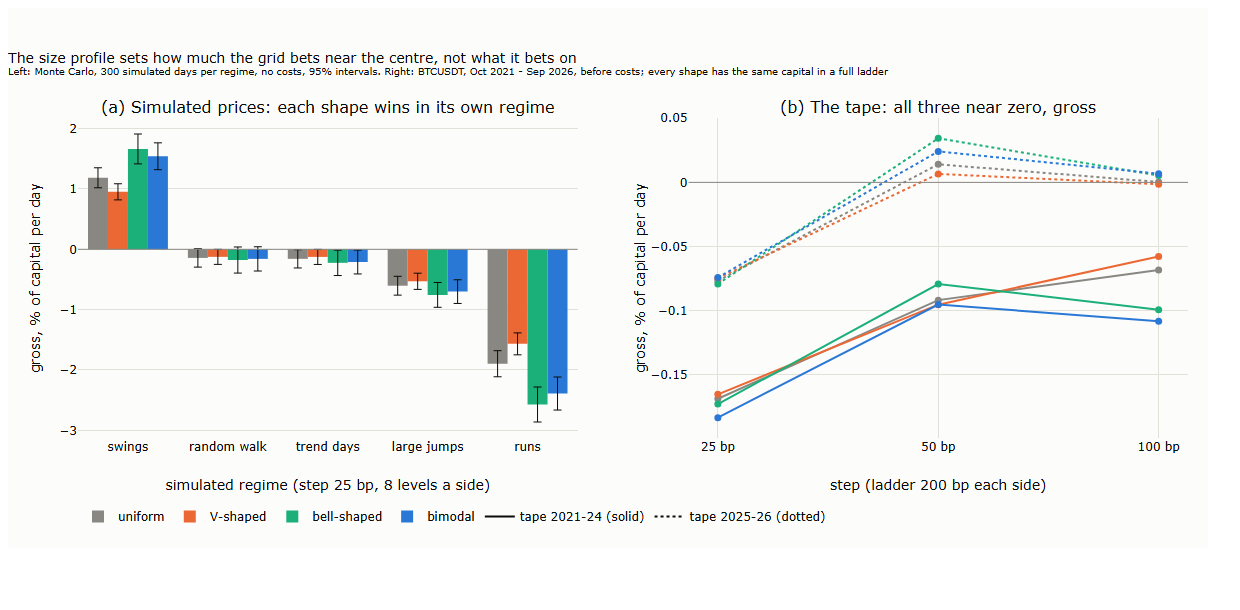
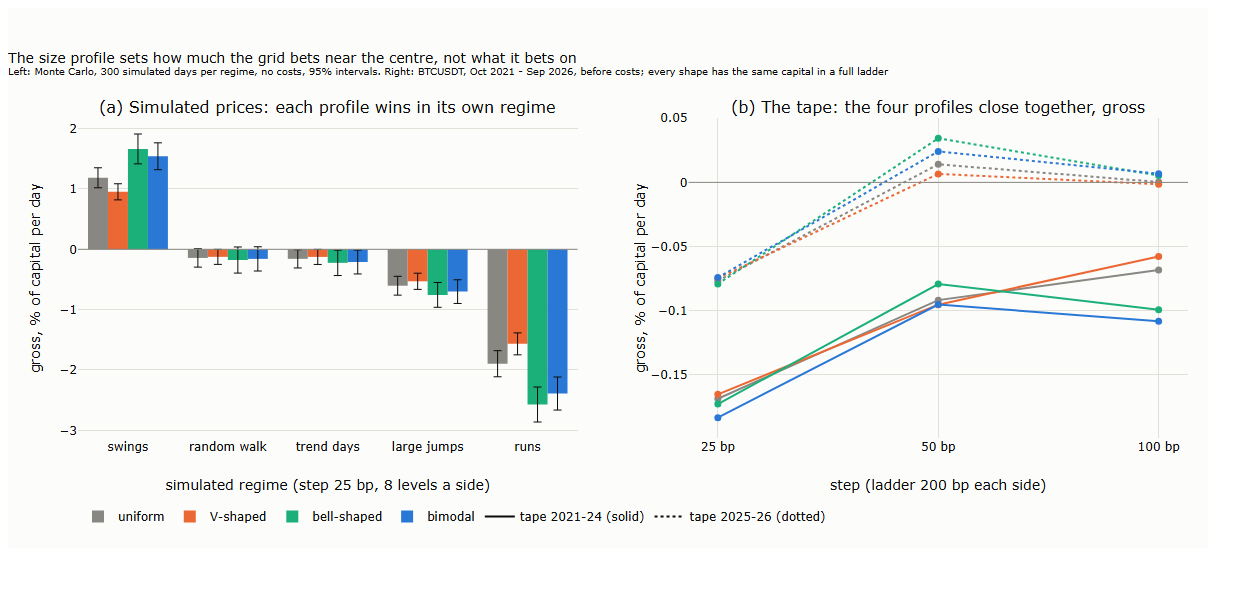
Lecture 17: axes in captions, text aligned with figures and results, 17_06 title (#285)
Checked against data/interim/l17 results:
- §4 lead and §4.1: before costs the settings are slightly negative (about
  -0.46% to +0.08% a day), the four profiles within 0.05 points of each other.
- §4.2: holding at the cap has the worst days at 50 bp and more; at 25 bp
  refreshing every hour is slightly worse (-8.8% vs -8.3%); base range
  -3.9% to -8.1%.
- §5: four rules survive the correction, two most; strong-trend rules at 25
  and 50 bp (cuts 0.03-0.10 points a day).
- §6: on strong-forecast days the grid's result is close to zero.
- 17_06 panel titles: "four profiles" (was "all three"); axes line for 9 figures.

Changed region(s): [[0.0613, 0.1557, 0.4597, 0.1869], [0.5823, 0.1557, 0.9194, 0.1869]]

diff --git a/lectures/17-an-intraday-grid/scripts/l17_s4_charts.py b/lectures/17-an-intraday-grid/scripts/l17_s4_charts.py
@@ -30,7 +30,7 @@ REG = ["swings", "random walk", "trend days", "large jumps", "runs"]
 S = per(pl.read_parquet(L17_RESULTS / "l17_shapes.parquet").filter((pl.col("width") == 200) & (pl.col("levels") >= 2)))
 G = S.group_by("step", "shape", "p").agg(pl.col("gross").mean().alias("g"), (pl.col("gross").std() / pl.len().sqrt()).alias("se"))
 fig = make_subplots(rows=1, cols=2, column_widths=[0.5, 0.5], horizontal_spacing=0.1,
-                    subplot_titles=("(a) Simulated prices: each shape wins in its own regime", "(b) The tape: all three near zero, gross"))
+                    subplot_titles=("(a) Simulated prices: each profile wins in its own regime", "(b) The tape: the four profiles close together, gross"))
 for sh, c in COL.items():
     m = M.filter(pl.col("shape") == sh); m = m.sort(pl.col("regime").replace_strict({r: i for i, r in enumerate(REG)}))
     fig.add_bar(x=m["regime"], y=m["gross"], error_y=dict(array=1.96 * m["se"].to_numpy(), color=INK, thickness=1), marker=dict(color=c), name=sh, legendgroup=sh, row=1, col=1)

diff --git a/lectures/17-an-intraday-grid/lecture.md b/lectures/17-an-intraday-grid/lecture.md
@@ -101,7 +101,7 @@ Round-trip income can only grow. The inventory result is where the risk sits: th
 Lecture 16's reference day, 12 March 2024, with a step of 50 bp and four levels on each side, on USD 100,000 of capital. The ladder was laid at the day's first price, USD 72,156, so the step was USD 360.78 and one unit was USD 25,000, or 0.3465 BTC. A round trip earned 0.3465 × 360.78 = **USD 125**.
 
 ![One day of the grid on the tape, 12 March 2024: the price, the ladder, every fill, the position, and the round-trip income, inventory result and gross result through the day](figures/17_01_grid_day.png)
-<sub><b>How to read the figure.</b> <b>Top:</b> the price (the last trade of every 10 seconds); blue lines are the buy levels below each centre, pink lines the sell levels above it, the dotted line the centre, the dashed lines the stops. Blue triangles are buys filled, pink triangles sells filled, black crosses stops, after which a new ladder is laid around the price. <b>Middle:</b> the position, in units. <b>Bottom:</b> the result so far, before fees and funding: the round-trip income (orange), the inventory result (blue, the open units marked to the price) and their sum, the gross result (black).</sub>
+<sub><b>How to read the figure.</b> <b>Axes.</b> Hour of the day, UTC (x). Top: price, USD (y). Middle: position, units (y). Bottom: result, USD per USD 100,000 of capital (y). <b>Top:</b> the price (the last trade of every 10 seconds); blue lines are the buy levels below each centre, pink lines the sell levels above it, the dotted line the centre, the dashed lines the stops. Blue triangles are buys filled, pink triangles sells filled, black crosses stops, after which a new ladder is laid around the price. <b>Middle:</b> the position, in units. <b>Bottom:</b> the result so far, before fees and funding: the round-trip income (orange), the inventory result (blue, the open units marked to the price) and their sum, the gross result (black).</sub>
 
 The day falls into three parts:
 
@@ -159,7 +159,7 @@ Five price paths, three without a pattern and two with one:
 | Control: a trend day | Random walk + a drift for the whole day, different every day, 2% a day on average in either direction | Persistence |
 
 ![Monte Carlo: the grid's profit, minus its gap, and their sum, for three prices without a pattern and two with one](figures/17_02_martingale.png)
-<sub><b>How to read the figure.</b> For each simulated price path: <b>blue</b>, the grid's average profit per day; <b>grey</b>, minus the gap, what its fills paid above the market; <b>orange</b>, their sum, what the path's pattern earned the grid. Whiskers are 95% intervals. The shaded paths are the two controls, which have a pattern by construction. Left, a step of 25 bp; right, 50 bp.</sub>
+<sub><b>How to read the figure.</b> <b>Axes.</b> Simulated price path (x), one panel per step. Result in bp per day, per unit (y). For each simulated price path: <b>blue</b>, the grid's average profit per day; <b>grey</b>, minus the gap, what its fills paid above the market; <b>orange</b>, their sum, what the path's pattern earned the grid. Whiskers are 95% intervals. The shaded paths are the two controls, which have a pattern by construction. Left, a step of 25 bp; right, 50 bp.</sub>
 
 On the three prices without a pattern, the grid loses exactly its gap: profit plus gap is within two standard errors of zero in all six cases. Jumps make the grid lose more, 445 bp a day per unit with large jumps at a 25 bp step, but only because they widen the gap; they do not change the identity. A jump adds much to the variance and crosses few levels (Lecture 14, §4.1), and every level it does cross is filled above the market. The controls behave as they must: at a 25 bp step the grid earns 785 bp a day per unit on swings and loses 190 on trend days. The grid has no edge of its own. It sells the price's swings and buys its runs, and it is paid only if swings dominate at the scale of its step.
 
@@ -190,7 +190,7 @@ Here $`\varepsilon_t`$, $`\eta_t`$ and $`\zeta_t`$ are independent standard norm
 **Switching off.** A grid that knew it was in a run would close its position at the market and pause, and restart around the price when the run ended. The simulation tests this with the true state seen at once, and seen 5, 15 or 30 minutes late.
 
 ![Monte Carlo with runs: one simulated day with its runs and hidden drift, and the grid's profit by the share of time in runs](figures/17_03_runs.png)
-<sub><b>How to read the figure.</b> <b>Top:</b> one simulated day of the calibrated model with 10% of its time in runs; the shaded bands are the run episodes. <b>Middle:</b> the hidden drift, in bp per minute: it moves only in a run and fades with a 10-minute half-life afterwards. <b>Bottom left:</b> the grid's average profit per day, by the share of time in runs, with the swings held fixed: on a random walk (grey) and on a random walk with swings (black); volatility is not held fixed here and rises with the runs. <b>Bottom right:</b> every model calibrated to the tape's variance ratio and volatility: the grid always on (dashed), and switched off during runs seen at once or 5, 15 or 30 minutes late. Step 25 bp, 5 levels a side, no costs.</sub>
+<sub><b>How to read the figure.</b> <b>Axes.</b> Top and middle: hour of the simulated day (x); price in % from the open, then drift in bp per minute (y). Bottom: share of time in runs, % (x); profit in bp per day, per unit (y). <b>Top:</b> one simulated day of the calibrated model with about 10% of its time in runs; the shaded bands are the run episodes. <b>Middle:</b> the hidden drift, in bp per minute: it moves only in a run and fades with a 10-minute half-life afterwards. <b>Bottom left:</b> the grid's average profit per day, by the share of time in runs, with the swings held fixed: on a random walk (grey) and on a random walk with swings (black); volatility is not held fixed here and rises with the runs. <b>Bottom right:</b> every model calibrated to the tape's variance ratio and volatility: the grid always on (dashed), and switched off during runs seen at once or 5, 15 or 30 minutes late. Step 25 bp, 5 levels a side, no costs.</sub>
 
 Two results, one from each lower panel:
 
@@ -226,7 +226,7 @@ On five years of BTCUSDT the grid loses after costs at every step, and before co
 If the tape's order did nothing for the grid, the tape and the shuffled days would give the same result. The shuffle keeps one thing that may still flatter both: the reversion within a minute, which no resting order a step away can earn but which the shuffled days carry as well.
 
 ![The grid on five years of BTCUSDT: the accounts by step, the tape against the same minutes shuffled, and the net result by year](figures/17_04_tape.png)
-<sub><b>How to read the figure.</b> <b>Left:</b> the daily average of each part of the accounts (§1.3), by step, in % of capital: round-trip income (orange), inventory result (blue), their sum, the gross result (black), fees and funding as a cost (grey), and the net result (pink). <b>Middle:</b> the gross result on the tape minus that on the same days with their minutes shuffled, with 95% intervals; below zero, the tape's order costs the grid. <b>Right:</b> the net result by year, one line per step, light for the narrowest step and dark for the widest; 2021 covers October to December, 2026 January to September.</sub>
+<sub><b>How to read the figure.</b> <b>Axes.</b> Left and middle: step (x); % of capital per day (y). Right: year (x); net result, % of capital per day (y). <b>Left:</b> the daily average of each part of the accounts (§1.3), by step, in % of capital: round-trip income (orange), inventory result (blue), their sum, the gross result (black), fees and funding as a cost (grey), and the net result (pink). <b>Middle:</b> the gross result on the tape minus that on the same days with their minutes shuffled, with 95% intervals; below zero, the tape's order costs the grid. <b>Right:</b> the net result by year, one line per step, light for the narrowest step and dark for the widest; 2021 covers October to December, 2026 January to September.</sub>
 
 | Step | Round trips a day | Stops a day | Net result, % a day | Sharpe ratio, net | Worst 1% of days, % |
 |---|---|---|---|---|---|
@@ -249,7 +249,7 @@ These are results on one market with conservative fills: every fill on a turning
 
 ## 4. The levers
 
-No setting of the grid gives it an edge. The size profile, the width, the exits and the refresh change how much the grid bets near the price, what leaving costs and how large its worst days are; before costs, every setting stays within a few hundredths of a percent a day of zero. One lever has a clear mechanism and a large effect on the tail: staying out for the rest of the day after a stop.
+No setting of the grid gives it an edge. The size profile, the width, the exits and the refresh change how much the grid bets near the price, what leaving costs and how large its worst days are; before costs, no setting earns: across the settings tested the gross result runs from about −0.46% to +0.08% of capital a day, slightly negative in most, and at a given step the settings differ little from one another. One lever has a clear mechanism and a large effect on the tail: staying out for the rest of the day after a stop.
 
 ### 4.1 The size profile
 
@@ -265,7 +265,7 @@ No setting of the grid gives it an edge. The size profile, the width, the exits 
 With the same capital in a full ladder, the profiles differ only in where that capital sits, and so in what each kind of path pays:
 
 ![The size profile, stylised: the size at each level, the units held after a fall, what a run costs, and how many swings pay for one stop](figures/17_05_shapes.png)
-<sub><b>How to read the figure.</b> A schematic, not data: eight levels on each side and the same capital in a full ladder for every profile. Money is in steps × units, so one round trip of an average-sized unit earns 1. <b>(a)</b> The size at each level, below (−) and above (+) the price. Panels (b) to (d) show the side below; the side above is its mirror image. <b>(b)</b> The units held after the price has fallen k steps, which is also what the swing earns when the price comes back: every unit bought on the way down is sold one step higher. <b>(c)</b> What a run costs when the price falls k steps and the units are closed there; the last point is the stop. <b>(d)</b> How many swings of k steps pay for one stop.</sub>
+<sub><b>How to read the figure.</b> <b>Axes.</b> (a) level, steps from the centre (x), size in units (y). (b) fall in steps (x), units held (y). (c) depth of the run in steps (x), cost in steps × units (y). (d) depth of the swing in steps (x), number of swings (y). A schematic, not data: eight levels on each side and the same capital in a full ladder for every profile. Money is in steps × units, so one round trip of an average-sized unit earns 1. <b>(a)</b> The size at each level, below (−) and above (+) the price. Panels (b) to (d) show the side below; the side above is its mirror image. <b>(b)</b> The units held after the price has fallen k steps, which is also what the swing earns when the price comes back: every unit bought on the way down is sold one step higher. <b>(c)</b> What a run costs when the price falls k steps and the units are closed there; the last point is the stop. <b>(d)</b> How many swings of k steps pay for one stop.</sub>
 
 | Profile | Units held after a fall of 2 steps | What the stop costs | Swings of one step that pay for one stop | Swings of four steps that pay for one stop |
 |---|---|---|---|---|
@@ -296,11 +296,11 @@ Moving the peaks outwards makes the stop cheaper, from 54 to 18, and moves the s
 **Each profile in its regime.** On simulated prices, where the regime is known, the reasoning can be checked: the same tape simulator, run on one-second paths of five kinds (§2), 300 days each, with eight levels a side, a step of 25 bp and no costs.
 
 ![The size profile on simulated prices by regime, and on the tape](figures/17_06_shapes_regimes.png)
-<sub><b>How to read the figure.</b> <b>(a)</b> The gross result per day, in % of capital, on simulated prices of five kinds, for each profile; whiskers are 95% intervals. <b>(b)</b> The gross result on the tape, ladder 200 bp each way, by step and profile: solid 2021–2024, dotted 2025–2026. Grey uniform, orange V-shaped, green bell-shaped, blue bimodal.</sub>
+<sub><b>How to read the figure.</b> <b>Axes.</b> (a) simulated regime (x), gross result in % of capital per day (y). (b) step (x), gross result in % of capital per day (y). <b>(a)</b> The gross result per day, in % of capital, on simulated prices of five kinds, for each profile; whiskers are 95% intervals. <b>(b)</b> The gross result on the tape, ladder 200 bp each way, by step and profile: solid 2021–2024, dotted 2025–2026. Grey uniform, orange V-shaped, green bell-shaped, blue bimodal.</sub>
 
 Each profile wins where the path matches its bet: the bell where the price swings back by about a step, +1.66% a day against +1.19% for uniform sizes, and the V where it runs, jumps or trends. The bimodal profile lies between the bell and uniform sizes in every regime, because none of the five offers the swings of three to four steps it bets on. The order of the others never reverses: in every regime the bell's result, gain or loss, is about 1.4 times that of uniform sizes, and the V's smaller. The profile decides how much the grid bets near the price and at which depth; it does not decide whether the bet pays. A grid that knew which regime was coming could choose its profile; §5 asks whether anything known in advance tells.
 
-**On the tape** the four profiles are all near zero before costs, within about 0.05 percentage points a day of each other at every step and width tested. The mechanism shows in the accounts: the bell and the bimodal profile have the largest round-trip income, the largest inventory losses and the worst days, the V the smallest of each. After costs the V comes out slightly best, because it trades least near the price and pays the fewest fees. Split by yesterday's volatility, which is known in the morning, no profile does better than another by more than one to two standard errors.
+**On the tape** the four profiles are close to one another before costs, within about 0.05 percentage points a day at every step and width tested, and all slightly negative: with the ladder at 200 bp, about −0.17% a day at a step of 25 bp and −0.06% to −0.11% at 50 and 100 bp in 2021–2024. The mechanism shows in the accounts: the bell and the bimodal profile have the largest round-trip income, the largest inventory losses and the worst days, the V the smallest of each. After costs the V comes out slightly best, because it trades least near the price and pays the fewest fees. Split by yesterday's volatility, which is known in the morning, no profile does better than another by more than one to two standard errors.
 
 ### 4.2 Width, exits and refresh
 
@@ -313,7 +313,7 @@ Each lever was varied on its own, around the grid of §3, at steps of 25 to 200 
 | Refresh | The ladder re-centred once a day (the base), every 4 hours or every hour; a refresh closes the inventory at the market and lays a new ladder around the price | How often the grid accepts the market's new level |
 
 ![Width, exits and refresh on the tape: the Sharpe ratio after costs and the worst 1% of days](figures/17_07_levers.png)
-<sub><b>How to read the figure.</b> All after costs, BTCUSDT, October 2021 to September 2026. <b>(a)</b> The Sharpe ratio by width, uniform sizes, one line per step, light for 25 bp and dark for 200 bp; solid 2021–2024, dotted 2025–2026. At 200 bp the widths of 100 and 200 bp give the same single level. <b>(b)</b> The Sharpe ratio by exit and refresh rule, ladder 200 bp each way; full colour 2021–2024, pale 2025–2026. <b>(c)</b> The worst 1% of days for the same rules, in % of capital.</sub>
+<sub><b>How to read the figure.</b> <b>Axes.</b> (a) width in bp (x), Sharpe ratio (y). (b) step (x), Sharpe ratio (y). (c) step (x), worst 1% of days in % of capital (y). All after costs, BTCUSDT, October 2021 to September 2026. <b>(a)</b> The Sharpe ratio by width, uniform sizes, one line per step, light for 25 bp and dark for 200 bp; solid 2021–2024, dotted 2025–2026. At 200 bp the widths of 100 and 200 bp give the same single level. <b>(b)</b> The Sharpe ratio by exit and refresh rule, ladder 200 bp each way; full colour 2021–2024, pale 2025–2026. <b>(c)</b> The worst 1% of days for the same rules, in % of capital.</sub>
 
 | Rule, step 50 bp | Sharpe ratio, 2021–24 | Sharpe ratio, 2025–26 | Worst 1% of days, 2021–24 | Worst 1% of days, 2025–26 | Stops a day, 2021–24 / 2025–26 |
 |---|---|---|---|---|---|
@@ -324,19 +324,19 @@ Each lever was varied on its own, around the grid of §3, at steps of 25 to 200 
 
 <sub><b>How to read the table.</b> Sharpe ratio: annualised, of the daily net result. Worst 1% of days: the net result that only 1% of days were worse than, in % of capital.</sub>
 
-**Off for the rest of the day after a stop.** A stop means the price has run through the whole ladder, and on a running day it rarely runs once: on 12 March the first stop was followed by two more within ninety minutes (§1.4). A grid that steps aside after the first stop avoids the second and the third. At every step, in both periods, this cuts the worst 1% of days from between −4% and −8% of capital to between −1.2% and −2.3%. Its Sharpe ratio is about that of the base: it reshapes the tail more than the average, which is what a stop rule should do.
+**Off for the rest of the day after a stop.** A stop means the price has run through the whole ladder, and on a running day it rarely runs once: on 12 March the first stop was followed by two more within ninety minutes (§1.4). A grid that steps aside after the first stop avoids the second and the third. At every step, in both periods, this cuts the worst 1% of days from between −3.9% and −8.1% of capital to between −1.2% and −2.3%. Its Sharpe ratio is about that of the base: it reshapes the tail more than the average, which is what a stop rule should do.
 
 The other levers, compactly:
 
 - **Width.** A wider ladder raises the Sharpe ratio at every step up to 100 bp, in both periods, because the price reaches the stop less often and the taker fee at the stop is paid less often. With the same capital, a wider ladder also means smaller units: at its widest the grid barely holds anything, and its result tends to zero. It loses less because it trades less, not because it earns more.
-- **No stop.** Holding at the cap avoids every stop and its fee, and raises the Sharpe ratio for the same reason; it has the worst days of all the rules, −8.3% of capital on the worst 1% of days in 2021–2024.
+- **No stop.** Holding at the cap avoids every stop and its fee, and raises the Sharpe ratio for the same reason; it has the worst days of all the rules at steps of 50 bp and more, −8.3% of capital on the worst 1% of days at 50 bp in 2021–2024; at 25 bp, refreshing every hour is slightly worse (−8.8% against −8.3%).
 - **Refresh.** Re-centring more often lowers the Sharpe ratio at 25 and 50 bp, in both periods: every refresh closes the inventory at the market, pays the taker fee and gives up the units that would have come back.
 
 **What the levers say.** Every setting that loses less does so by paying less to leave, or by trading less; none adds a swing the market does not offer. The choices that hold across the whole range tested, and have a reason, are a wide ladder and stepping aside after a stop. Section 5 asks whether something known in advance can tell the grid when to trade at all.
 
 ## 5. Known in advance
 
-Two rules known in advance cut the grid's losses, and the cut survives the correction for many tests and holds out of sample: switching the grid off after a violent hour, and leaning its inventory with the trend. Neither creates an edge. Of 56 tests for a positive result before costs, none survives the correction.
+Rules known in advance cut the grid's losses, and the cut survives the correction for many tests and holds out of sample. Two do so most: switching the grid off after a violent hour, and leaning its inventory with the trend; the two that act only in strong trends survive at the small steps but cut less. Neither creates an edge. Of 56 tests for a positive result before costs, none survives the correction.
 
 ### 5.1 The rules and the tests
 
@@ -381,7 +381,7 @@ The same verdict in one number is the adjusted p-value, q = p × m ÷ i (made no
 ### 5.2 Results
 
 ![Rules known in advance: how much each cuts the grid's losses, and the Benjamini–Hochberg correction drawn](figures/17_08_known_in_advance.png)
-<sub><b>How to read the figure.</b> <b>(a)</b> For each rule and step, the daily net result with the rule minus that of its baseline, in % of capital, with 95% intervals; above zero, the rule cuts losses. Full colour 2021–2024, pale 2025–2026; a dark ring marks a result that survives the correction. <b>(b)</b> The correction drawn: the p-values of each question, sorted, against the bar 0.05 × i ÷ m (dashed); the tests up to the last one below the bar count. Black: Q1, 28 tests; purple: Q2, 56 tests; p-values above 0.5 lie outside the panel.</sub>
+<sub><b>How to read the figure.</b> <b>Axes.</b> (a) step (x), rule minus baseline in % of capital per day (y). (b) rank of the test ÷ number of tests, i/m (x), p-value (y). <b>(a)</b> For each rule and step, the daily net result with the rule minus that of its baseline, in % of capital, with 95% intervals; above zero, the rule cuts losses. Full colour 2021–2024, pale 2025–2026; a dark ring marks a result that survives the correction. <b>(b)</b> The correction drawn: the p-values of each question, sorted, against the bar 0.05 × i ÷ m (dashed); the tests up to the last one below the bar count. Black: Q1, 28 tests; purple: Q2, 56 tests; p-values above 0.5 lie outside the panel.</sub>
 
 | Grid, after costs | Sharpe ratio, 2021–24 | Sharpe ratio, 2025–26 | Worst 1% of days, 2021–24 | Worst 1% of days, 2025–26 |
 |---|---|---|---|---|
@@ -397,7 +397,7 @@ The same verdict in one number is the adjusted p-value, q = p × m ÷ i (made no
 Five results:
 
 1. **The volatility switch cuts losses, and the cut is robust.** At steps of 25 to 100 bp it survives the correction at every K from 1.5 to 3, and points the same way in 2025–2026: a plateau, not a single good setting. It works on the tail, halving the worst 1% of days, while the gross result stays near zero: the switch avoids runs, it does not find swings. Its Sharpe ratio improves in 2021–2024 but not in 2025–2026 at 50 and 100 bp, where the smaller loss comes with a smaller spread. At 200 bp, where the grid rarely trades, it changes nothing.
-2. **Leaning with the trend cuts losses further,** by 0.15 percentage points a day at 25 bp and 0.07 at 50 bp, both surviving the correction, with t-statistics of 5.2 and 2.8 in 2025–2026. The mechanism is the one of §2: a grid that holds no units against the trend is not filled by runs in the trend's direction, and that the lean helps this much suggests, as our inference, that such runs are a large part of what hurts. Leaning only in strong trends, or stepping aside in them, helps less: the sign of the trend matters, not only its strength.
+2. **Leaning with the trend cuts losses further,** by 0.15 percentage points a day at 25 bp and 0.07 at 50 bp, both surviving the correction, with t-statistics of 5.2 and 2.8 in 2025–2026. The mechanism is the one of §2: a grid that holds no units against the trend is not filled by runs in the trend's direction, and that the lean helps this much suggests, as our inference, that such runs are a large part of what hurts. Leaning only in strong trends, or stepping aside in them, helps less: it survives the correction at 25 and 50 bp, with cuts of 0.03 to 0.10 percentage points a day, and not at the wider steps; the sign of the trend matters, not only its strength.
 3. **The channel adds nothing measurable** beyond the volatility switch, at any step, in either period.
 4. **No rule creates an edge.** Of the 56 tests of Q2 none survives the correction. The best is the grid on only from 12:00 to 16:00 UTC, the US morning, with a gross t-statistic of 1.8 at 100 bp and 1.6 in 2025–2026; as the best of 56, its adjusted p-value is 0.72. It is a lead, not a finding.
 5. **Cheaper fees do not rescue it.** With a maker fee of zero, the switched grid still loses after costs (a Sharpe ratio of −1.5 at 50 bp), because the taker fee at stops, switches and closes remains and the gross result is about zero. Section 7 asks what rebate would close the gap.
@@ -426,7 +426,7 @@ A strategy that loses money can improve a portfolio only if it is negatively cor
 **The experiment.** The trend rule of Lecture 16 (§7, step 2: the rule in the perpetual with the re-posted entry), its hourly results summed per UTC day; the grid of §5 with the volatility switch and the lean with the trend, ladder 200 bp each way; both after costs. The grid is scaled to the trend rule's volatility and given 10% or 25% of the weight.
 
 ![The grid next to the trend rule: the portfolio's Sharpe ratio by the grid's share, and the grid's result by the size of the trend forecast](figures/17_09_with_trend.png)
-<sub><b>How to read the figure.</b> <b>(a)</b> The Sharpe ratio after costs of the trend rule alone (left) and with 10% or 25% of the weight in the grid, one line per step; solid 2021–2024, dotted 2025–2026. <b>(b)</b> The grid's daily net result, in % of capital, by the size of the trend forecast at the start of the day (the last finished hour before 00:00 UTC), in thirds cut on 2021–2024; full colour 2021–2024, pale 2025–2026, whiskers 95% intervals.</sub>
+<sub><b>How to read the figure.</b> <b>Axes.</b> (a) grid's share of the weight, % (x), portfolio Sharpe ratio (y). (b) third of the trend forecast (x), grid's net result in % of capital per day (y). <b>(a)</b> The Sharpe ratio after costs of the trend rule alone (left) and with 10% or 25% of the weight in the grid, one line per step; solid 2021–2024, dotted 2025–2026. <b>(b)</b> The grid's daily net result, in % of capital, by the size of the trend forecast at the start of the day (the last finished hour before 00:00 UTC), in thirds cut on 2021–2024; full colour 2021–2024, pale 2025–2026, whiskers 95% intervals.</sub>
 
 | Grid step | Correlation with the trend rule, 2021–24 / 2025–26 | The grid's Sharpe ratio, 2021–24 / 2025–26 | It would need to exceed, 2021–24 / 2025–26 |
 |---|---|---|---|
@@ -440,7 +440,7 @@ Three results:
 
 1. **The grid is no hedge for the trend rule.** Without the lean its daily results are uncorrelated with the trend rule's (between −0.04 and +0.01); with the lean, which makes it hold inventory in the trend's direction, slightly positively (+0.09 to +0.20). Neither comes close to the strongly negative correlation a losing strategy would need.
 2. **Every share of the grid lowers the Sharpe ratio**, by more the larger the share and the narrower the step: at 50 bp, a quarter of the weight in the grid takes the trend rule's Sharpe ratio from 1.16 to 0.31 in 2021–2024 and from 0.41 to −0.33 in 2025–2026.
-3. **The grid does not earn when the trend rule has little to do.** At every step and in both periods, it loses more on days that start with a small or medium trend forecast than on days that start with a strong one, when it loses least. The grid without the lean shows the same order. The differences are within one to two and a half standard errors, a lead rather than a finding. One possible reason, for readers to test: the forecast is divided by volatility, so a small forecast often marks a volatile market without a direction, the kind of market in which a grid is run over.
+3. **The grid does not earn when the trend rule has little to do.** At every step and in both periods, it loses more on days that start with a flat or medium trend forecast than on days that start with a strong one, when its result is close to zero (−0.01% to +0.03% a day). The grid without the lean shows the same order. The differences are within one to two and a half standard errors, a lead rather than a finding. One possible reason, for readers to test: the forecast is divided by volatility, so a small forecast often marks a volatile market without a direction, the kind of market in which a grid is run over.
 
 **What it means.** A grid and a trend rule are opposite bets on the path, but not offsetting ones: the trend rule earns from runs, the grid loses on them, and the grid's earnings on swings are too small to pay for that. As a second strategy beside the trend rule, the grid adds risk and subtracts return.
 
